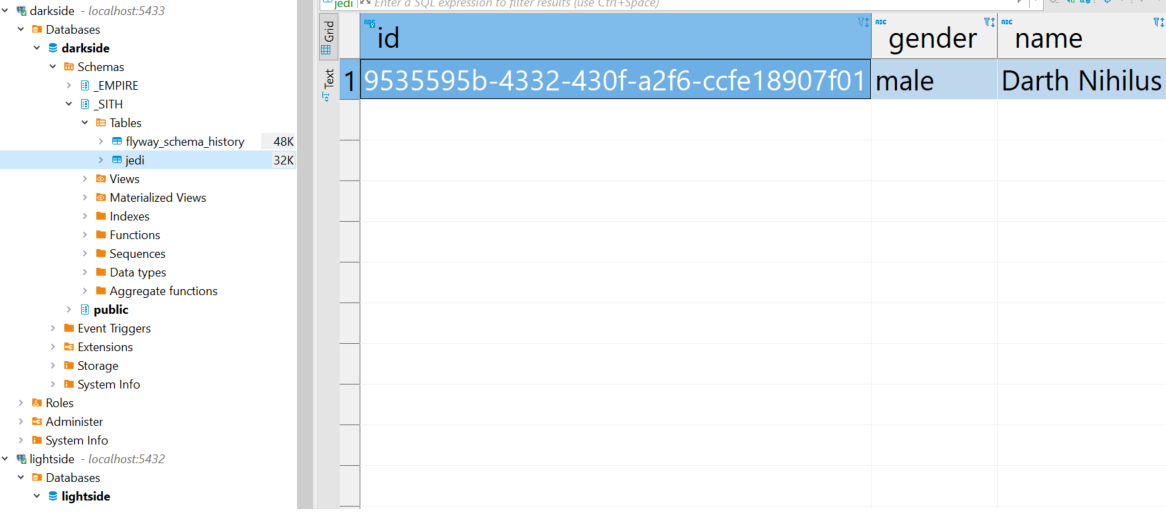
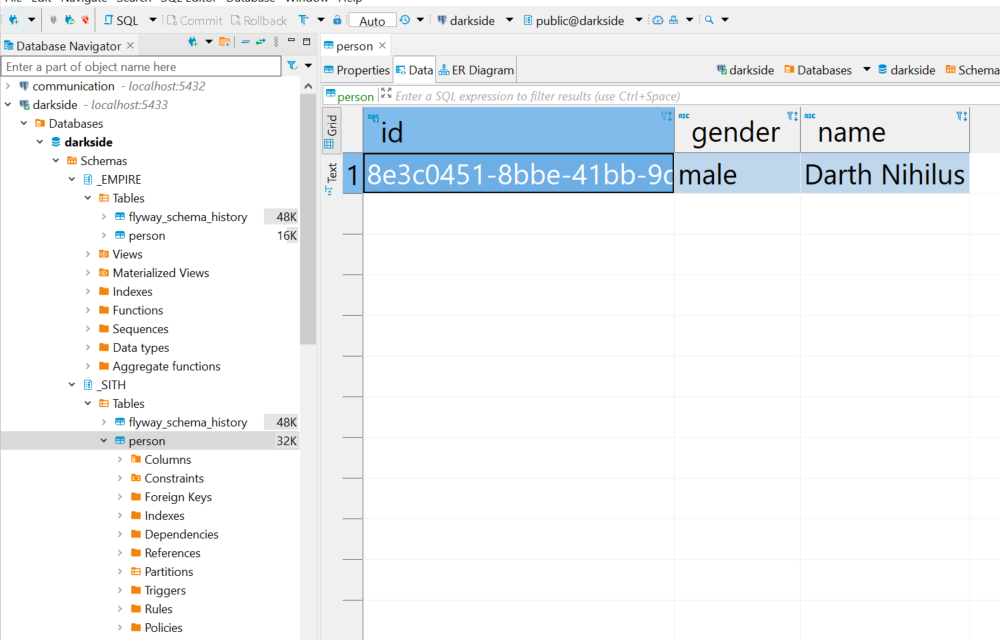
fix: ajuste sample multidb

diff --git a/tjf-repository-samples/tjf-repository-multidb-sample/src/main/java/com/tjf/sample/github/multidb/controller/RegisterController.java b/tjf-repository-samples/tjf-repository-multidb-sample/src/main/java/com/tjf/sample/github/multidb/controller/RegisterController.java
@@ -4,8 +4,6 @@ import java.util.List;
 
 import org.springframework.beans.factory.annotation.Autowired;
 import org.springframework.http.MediaType;
-import org.springframework.security.authentication.UsernamePasswordAuthenticationToken;
-import org.springframework.security.core.context.SecurityContextHolder;
 import org.springframework.web.bind.annotation.GetMapping;
 import org.springframework.web.bind.annotation.PostMapping;
 import org.springframework.web.bind.annotation.RequestBody;
@@ -13,25 +11,23 @@ import org.springframework.web.bind.annotation.RequestHeader;
 import org.springframework.web.bind.annotation.RequestMapping;
 import org.springframework.web.bind.annotation.RestController;
 
-import com.tjf.sample.github.multidb.entity.Jedi;
-import com.tjf.sample.github.multidb.repository.JediRepository;
-import com.totvs.tjf.core.security.context.SecurityDetails;
-import com.totvs.tjf.core.security.context.SecurityPrincipal;
+import com.tjf.sample.github.multidb.entity.Person;
+import com.tjf.sample.github.multidb.repository.PersonRepository;
 
 @RestController
 @RequestMapping(path = "/api/v1/register", produces = MediaType.APPLICATION_JSON_VALUE)
 public class RegisterController {
 
 	@Autowired
-	private JediRepository repository;
+	private PersonRepository repository;
 
 	@PostMapping
-	public Jedi saveJedi(@RequestBody Jedi dto, @RequestHeader String tenant) {	
+	public Person saveJedi(@RequestBody Person dto, @RequestHeader String tenant) {	
 		return repository.saveAndFlush(dto);
 	}
 
 	@GetMapping
-	public List<Jedi> getAll(@RequestHeader String tenant) {
+	public List<Person> getAll(@RequestHeader String tenant) {
 		return repository.findAll();
 	}
 	

diff --git a/tjf-repository-samples/tjf-repository-multidb-sample/src/main/java/com/tjf/sample/github/multidb/entity/Person.java b/tjf-repository-samples/tjf-repository-multidb-sample/src/main/java/com/tjf/sample/github/multidb/entity/Person.java
@@ -1,5 +1,7 @@
 package com.tjf.sample.github.multidb.entity;
 
+import java.util.UUID;
+
 import javax.persistence.Entity;
 import javax.persistence.GeneratedValue;
 import javax.persistence.GenerationType;
@@ -7,6 +9,7 @@ import javax.persistence.Id;
 import javax.persistence.Table;
 import javax.validation.constraints.NotNull;
 
+import lombok.AllArgsConstructor;
 import lombok.Getter;
 import lombok.NoArgsConstructor;
 import lombok.Setter;
@@ -14,19 +17,18 @@ import lombok.Setter;
 @Getter
 @Setter
 @NoArgsConstructor
+@AllArgsConstructor
 @Entity
 @Table
-public class Jedi {
-
+public class Person {
+	
 	@Id
 	@GeneratedValue(strategy = GenerationType.AUTO)
-
-	private String id;
+	private UUID id;
 
 	@NotNull
 	private String name;
 
 	@NotNull
 	private String gender;
-
 }

diff --git a/tjf-repository-samples/tjf-repository-multidb-sample/src/main/java/com/tjf/sample/github/multidb/repository/PersonRepository.java b/tjf-repository-samples/tjf-repository-multidb-sample/src/main/java/com/tjf/sample/github/multidb/repository/PersonRepository.java
@@ -5,9 +5,9 @@ import javax.transaction.Transactional;
 import org.springframework.data.jpa.repository.JpaRepository;
 import org.springframework.stereotype.Repository;
 
-import com.tjf.sample.github.multidb.entity.Jedi;
+import com.tjf.sample.github.multidb.entity.Person;
 
 @Repository
 @Transactional
-public interface JediRepository extends JpaRepository<Jedi, Integer> {
+public interface PersonRepository extends JpaRepository<Person, Integer> {
 }

diff --git a/tjf-repository-samples/tjf-repository-multidb-sample/README.md b/tjf-repository-samples/tjf-repository-multidb-sample/README.md
@@ -1,13 +1,10 @@
-# Exemplo de uso do componente Repository Aggregate
+# Exemplo de uso do componente Repository MultiDB
 
 ## Contexto
 
-Para exemplificar o uso da biblioteca **Repository Multidb**, criaremos APIs REST que possibilite a criação de uma 
-lista de dados com os personagens do **Star Wars**.
+Para exemplificar o uso da biblioteca Repository Multidb, criaremos APIs REST que possibilitam a criação de uma lista de dados com os personagens de Star Wars.
 
-Os registros de cada personagem serão armazenadas em banco de dados distintos para aqueles 
-que apoiam a o lado negro da força(os Sith e o empério) e os que pregam o equilibrio da força (os 
-jedi e a republica). 
+Os registros de cada personagem serão armazenados em bancos de dados distintos, separados entre aqueles que apoiam o lado negro da força (os Sith e o Império) e os que defendem o equilíbrio da força (os Jedi e a República).
 
 ## Começando
 
@@ -121,7 +118,7 @@ Precisamos também do _script_ de criação da tabela no banco de dados. Este _s
 **V1.0__initialize.sql**
 
 ```sql
-CREATE TABLE jedi (
+CREATE TABLE Person (
  id varchar(255),
  gender varchar(255),
  name varchar(255),
@@ -143,6 +140,7 @@ Para iniciar criaremos as classes de modelo de dados das tabelas `Jedi`:
 ```java
 @Getter
 @Setter
+@AllArgsConstructor
 @NoArgsConstructor
 @Entity
 @Table
@@ -162,7 +160,6 @@ public class Jedi {
 }
 ```
 
-
 #### Repositories
 
 Após criadas a classe da entidade, criaremos os repositórios responsáveis pela criação e leitura dos registros da tabela `jedu` no banco de dados:
@@ -175,7 +172,6 @@ public class JediRepositoryextends JpaRepository<Jedi, Integer> { {
 
 }
 ```
-
 
 ### APIs REST
 
@@ -192,12 +188,12 @@ public class RegisterController {
 	private JediRepository repository;
 
 	@PostMapping
-	public Jedi saveJedi(@RequestBody Jedi dto, @RequestHeader String tenant) {	
+	public Person saveJedi(@RequestBody Person dto, @RequestHeader String tenant) {	
 		return repository.saveAndFlush(dto);
 	}
 
 	@GetMapping
-	public List<Jedi> getAll(@RequestHeader String tenant) {
+	public List<Person> getAll(@RequestHeader String tenant) {
 		return repository.findAll();
 	}
 	
@@ -307,24 +303,26 @@ que deseja conforme as informações abaixo:
 ```http
 POST /api/v1/register' HTTP/1.1 
 Host: localhost:8080
---header 'tenant: jedi' 
---header 'Content-Type: application/json' 
---data '{
+header 'tenant: jedi' 
+header 'Content-Type: application/json' 
 
-   "name":"Anakin Skywalker",
+{
+
+   "name":"Obi Wan Kenobi",
    "gender": "male" 
-}'
+}
 ```
 
-**Padmé Amidala**
+**Leia Organa**
 
 ```http
 POST /api/v1/register HTTP/1.1
 Host: localhost:8080
 Content-Type: application/json
---header 'tenant: republic' 
+header 'tenant: republic' 
+
 {
-  "name": "Padmé Amidala",
+  "name": "Leia Organa",
   "gender": "female"
 }
 ```
@@ -334,13 +332,14 @@ Content-Type: application/json
 ```http
 POST /api/v1/register' HTTP/1.1 
 Host: localhost:8080
---header 'tenant: jedi' 
---header 'Content-Type: application/json' 
---data '{
+header 'tenant: sith' 
+header 'Content-Type: application/json' 
 
-   "name":"Anakin Skywalker",
+{
+
+   "name":"Darth Nihilus",
    "gender": "male" 
-}'
+}
 ```
 
 **Leia Organa**
@@ -348,17 +347,18 @@ Host: localhost:8080
 ```http
 POST /api/v1/register' HTTP/1.1 
 Host: localhost:8080
---header 'tenant: jedi' 
---header 'Content-Type: application/json' 
---data '{
+header 'tenant: jedi' 
+header 'Content-Type: application/json' 
+data '{
 
    "name":"Anakin Skywalker",
    "gender": "male" 
 }'
 ```
 
-Após realizadas as inclusões acima, podemos verificar nos dois banco de dados as informações 
-divididas:
+
+
+Após realizar as inclusões acima, podemos verificar nos dois bancos de dados como as informações estão divididas:
 
 
 <p style="text-align: center">
@@ -369,8 +369,7 @@ divididas:
   <img src="multidbLightside.png" width="600" height="600">
 </p>
 
-Com isso podemos vender os dados do darkside para as forças do lightside e do lightside 
-para o darkside sem nenhum lado saber que temos as informações do outro.
+Com isso, é possível compartilhar os dados do lado sombrio com as forças do lado luminoso, e vice-versa, sem que nenhum dos lados saiba que possuímos as informações do outro.
 
 ## Que a força esteja com você!
 
